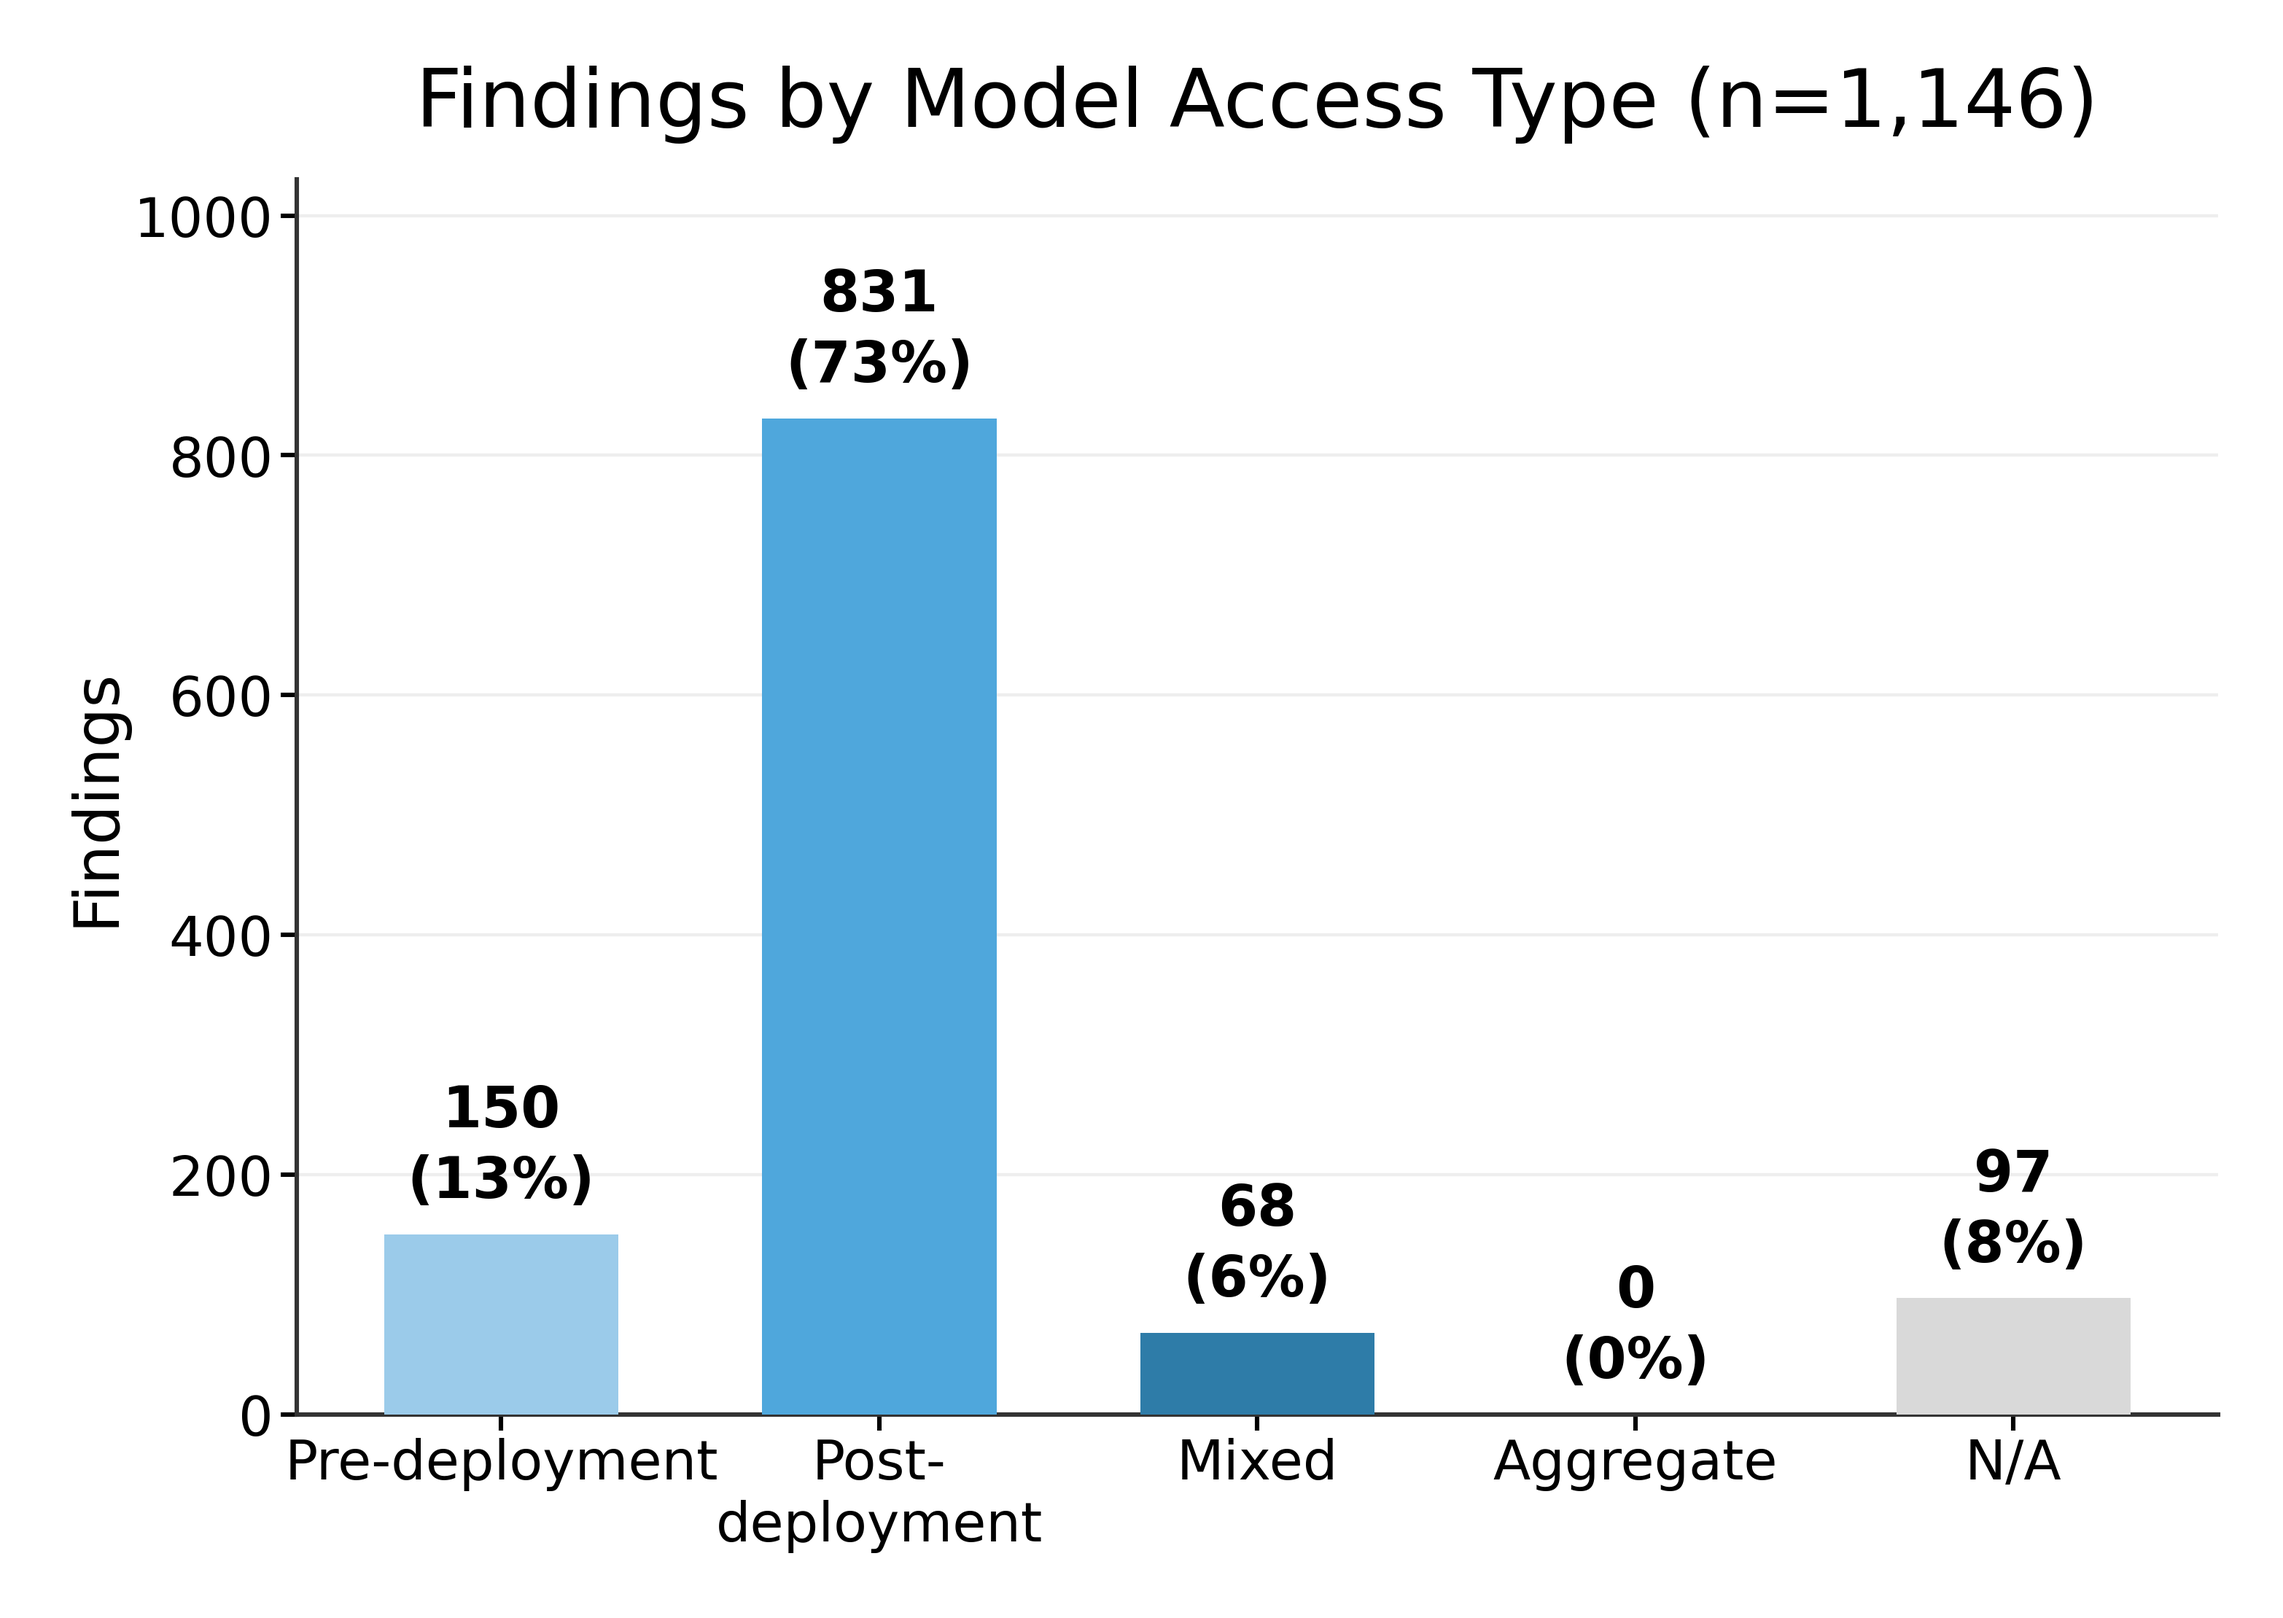
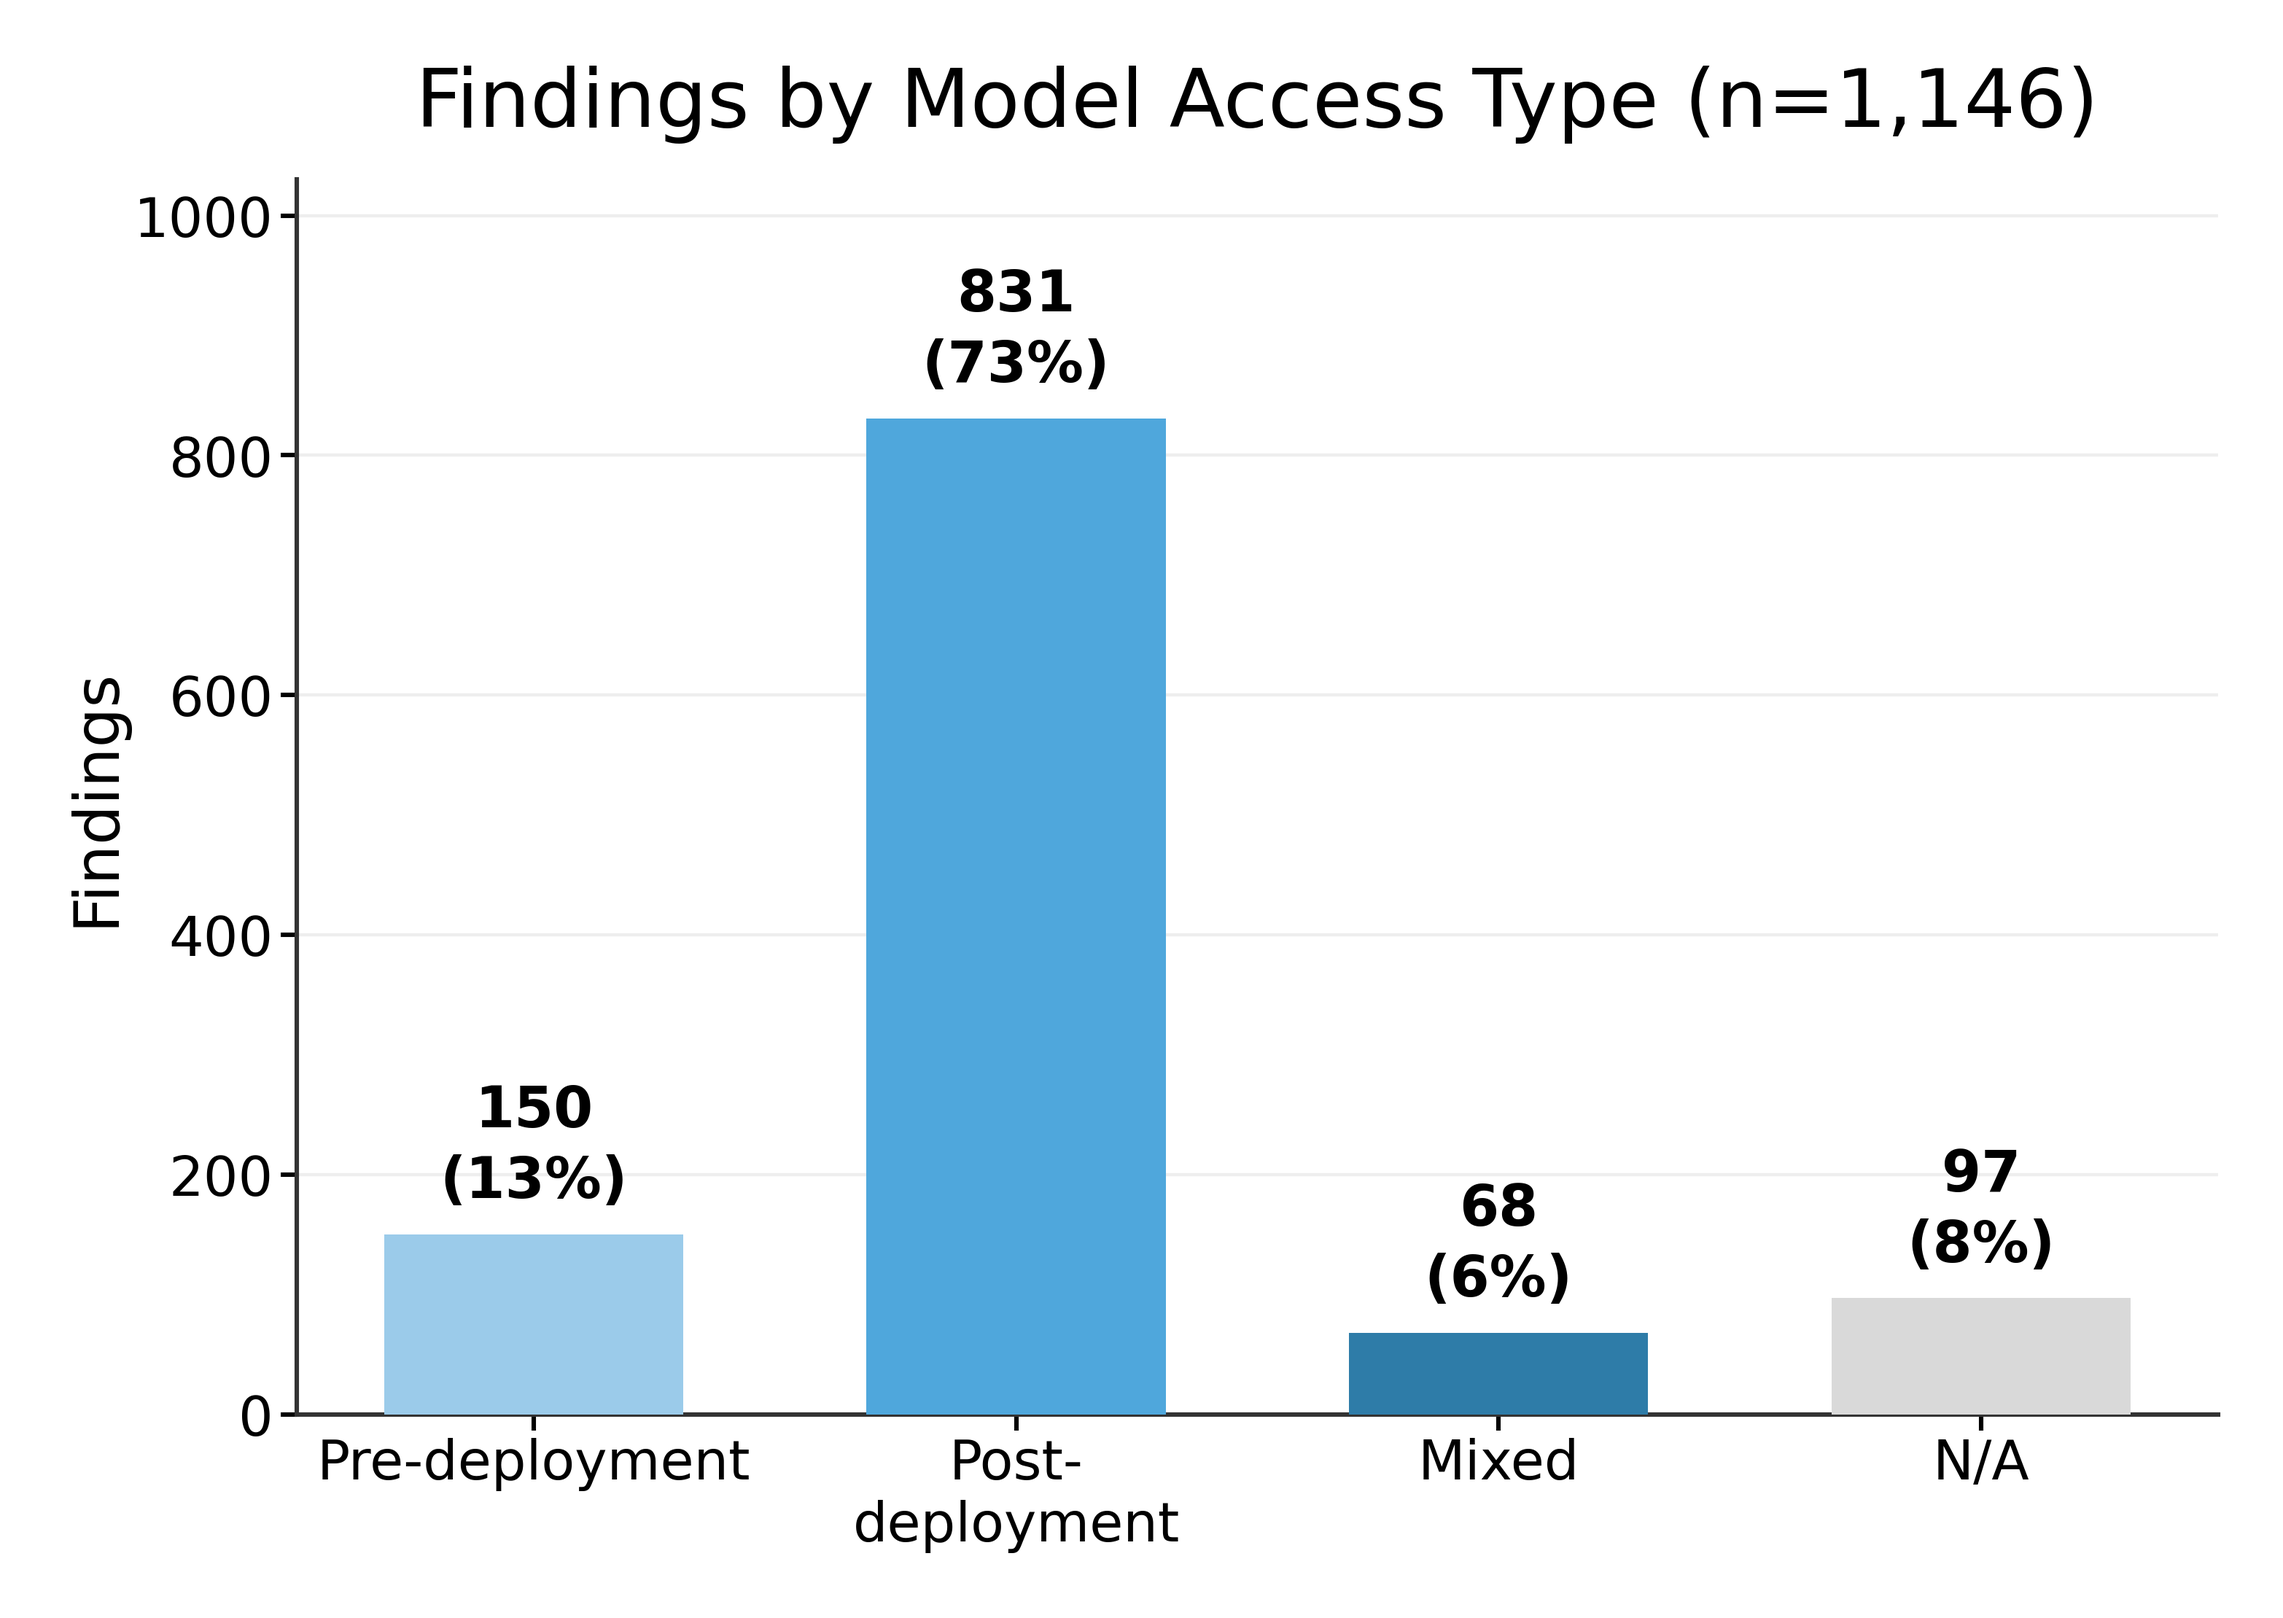
Remove Aggregate from the Access Type vocabulary
Aggregate was retired on 2026-08-31 and all 85 rows carrying it were recoded
then - 76 to Post-deployment (released or open-weight models reached through
public or API access) and 9 to Mixed (UK AISI's Frontier AI Trends Report 2025,
whose access is ahead of public release in some cases and public in others). The
reason was that the value described the report's FORMAT - a standing scorecard
or leaderboard - rather than how the evaluator reached the model, which is the
only question the column exists to answer.

That retirement was recorded in v10 and never carried into v11. The value stayed
in the v11 column-9 vocabulary, in the validator and audit VOCAB sets, and in the
key order of four chart scripts, so every access-type figure drew an empty
Aggregate category with a legend entry and a colour assigned to nothing.

Worse, scripts/merge_sweep.py still mapped aggregate|leaderboard|model card to
Aggregate on ingestion, so the retired value would have been minted again by the
next sweep - the vocabulary would have repopulated itself. That rule now maps to
Post-deployment, which is where 76 of the original 85 rows landed on
re-examination.

Removed from: palette.py (all three palettes), charts.py, charts2.py,
nfigA_access.py, audit_v13.py, merge_aisieval.py, AISIEVAL_validate.py,
merge_sweep.py and v11_RULEBOOK.md column 9. The v10 rulebook and the codebook
keep their entries, because those are where the retirement is documented. The
[…]

diff --git a/research/scripts/palette.py b/research/scripts/palette.py
@@ -55,8 +55,9 @@ ATTRIB = {"Explicit attribution": GREEN, "No explicit attribution": AMBER,
 SCOPE = {"government-AISI": "#2E7CA8", "third-party-evaluator": BLUE, "": GREY}
 
 # Access type: descriptive ordinal, palest to deepest, with grey for the non-answers.
+# `Aggregate` was retired 2026-08-31 — it described the report's format, not model access.
 ACCESS = {"Pre-deployment": "#9BCBEA", "Post-deployment": "#4FA7DC", "Mixed": "#2E7CA8",
-          "Aggregate": "#1F5A7A", "N/A": GREY, "": GREY}
+          "N/A": GREY, "": GREY}
 
 # Institution type, for the tree. Four sibling categories with no valence, so they need to be
 # BRIGHT and clearly separable — four tints of one blue are unreadable side by side. All four are
@@ -199,7 +200,7 @@ if _os.environ.get("AISIEVAL_PALETTE") == "legacy":
               "No response located": GREY, "": GREY}
     SCOPE = {"government-AISI": BLUE, "third-party-evaluator": "#4FADEE", "": GREY}
     ACCESS = {"Pre-deployment": BLUE, "Post-deployment": "#4FADEE", "Mixed": "#7B4FBF",
-              "Aggregate": "#00A6A6", "N/A": GREY, "": GREY}
+              "N/A": GREY, "": GREY}
     INSTTYPE = {"Government": "#1F6FB2", "Non-Profit (AIEF)": "#1E9E63",
                 "Non-Profit (Independent)": "#5B9BD5", "For-Profit": "#E8A80C"}
     NEUTRAL = [BLUE, ORANGE, "#00A6A6", "#7B4FBF", GREEN, "#D4267D", AMBER, "#4FADEE", "#7CB518", RED]
@@ -256,7 +257,7 @@ if _os.environ.get("AISIEVAL_PALETTE") == "mats":
               "No response located": GREY, "": GREY}
     SCOPE  = {"government-AISI": M["blue800"], "third-party-evaluator": M["blue400"], "": GREY}
     ACCESS = {"Pre-deployment": M["blue200"], "Post-deployment": M["blue400"],
-              "Mixed": M["blue600"], "Aggregate": M["blue800"], "N/A": GREY, "": GREY}
+              "Mixed": M["blue600"], "N/A": GREY, "": GREY}
     INSTTYPE = {"Government": M["blue800"], "Non-Profit (AIEF)": "#3E8C9E",
                 "Non-Profit (Independent)": "#8C5A7A", "For-Profit": M["blue400"]}
     NEUTRAL = [M["blue800"], M["blue600"], M["blue400"], "#3E8C9E", M["700"],

diff --git a/research/scripts/charts.py b/research/scripts/charts.py
@@ -120,7 +120,7 @@ ax.set_title(f"Tier A Findings by Model Developer (n={len(A)})",pad=26); ax.set_
 plt.close(fig)
 
 # ---------------------------------------------------------------- 03 access type
-order_keys=["Pre-deployment","Post-deployment","Mixed","Aggregate","N/A"]
+order_keys=["Pre-deployment","Post-deployment","Mixed","N/A"]
 order=order_keys
 c=collections.Counter(r.get("Access Type") for r in ROWS)
 v=[c.get(k,0) for k in order]
@@ -267,7 +267,7 @@ ax.set_title("Accountability Gap Rate by Publication Year (Tier A, C1)",pad=26);
 save(fig,"15_gap_rate_by_year.png")
 
 # ---------------------------------------------------------------- 16 gap rate by access type
-keys=[k for k in ("Pre-deployment","Post-deployment","Mixed","Aggregate") if any(r.get("Access Type")==k for r in H)]
+keys=[k for k in ("Pre-deployment","Post-deployment","Mixed") if any(r.get("Access Type")==k for r in H)]
 vals=[];ns=[]
 for k in keys:
     S=[r for r in H if r.get("Access Type")==k]

diff --git a/research/scripts/merge_sweep.py b/research/scripts/merge_sweep.py
@@ -84,7 +84,10 @@ def ftype(s, tier):
 def access(s):
     s = (s or '').lower()
     if re.search(r'pre-?deploy|pre-?release|deep access|early access', s): return 'Pre-deployment'
-    if re.search(r'aggregate|leaderboard|model card', s):                  return 'Aggregate'
+    # A standing scorecard, leaderboard or model card describes the report's FORMAT, not how the
+    # evaluator reached the model. That is why `Aggregate` was retired on 2026-08-31 and all 85
+    # rows recoded; this rule was still minting the value it had been retired for.
+    if re.search(r'aggregate|leaderboard|model card', s):                  return 'Post-deployment'
     if re.search(r'mix', s):                                               return 'Mixed'
     if re.search(r'api|open weight|public product|deployed|web page|black.?box', s): return 'Post-deployment'
     return 'N/A'

diff --git a/research/scripts/audit_v13.py b/research/scripts/audit_v13.py
@@ -122,7 +122,7 @@ flag("Finding Quote blank on a Tier A row", [r["Finding ID"] for r in A if not (
 VOCAB = {
  "Institution Type": {"Government","Non-Profit (AIEF)","For-Profit","Non-Profit (Independent)",
                       "Non-Profit (Independent);Lab","Government;Lab","For-Profit;Lab","Government;For-Profit"},
- "Access Type": {"Pre-deployment","Post-deployment","Mixed","Aggregate","N/A"},
+ "Access Type": {"Pre-deployment","Post-deployment","Mixed","N/A"},
  "Scope": {"government-AISI","third-party-evaluator"},
  "Severity (C1/C2) majority": {"C1","C2"},
  "Human": {"C1","C2"},

diff --git a/research/dataset/AISIEVAL_validate.py b/research/dataset/AISIEVAL_validate.py
@@ -19,7 +19,7 @@ VOCAB = {
  "Proportionality": {"Proportionate","Under-response (gap)","Accountability gap (no action)"},
  "Eval? (trackable)": {"yes","no"}, "Action Trackable?": {"yes","no",""},
  "Scope": {"government-AISI","third-party-evaluator"},
- "Access Type": {"Pre-deployment","Post-deployment","Mixed","Aggregate","N/A"},
+ "Access Type": {"Pre-deployment","Post-deployment","Mixed","N/A"},
 }
 MATRIX = {("C1","Substantive"):"Proportionate",("C1","Partial"):"Under-response (gap)",
  ("C1","Acknowledged"):"Under-response (gap)",("C1","None"):"Accountability gap (no action)",

diff --git a/research/scripts/merge_aisieval.py b/research/scripts/merge_aisieval.py
@@ -74,7 +74,7 @@ VOCAB = {
     "Eval? (trackable)": {"yes", "no"},
     "Action Trackable?": {"yes", "no"},
     "Scope": {"government-AISI", "third-party-evaluator"},
-    "Access Type": {"Pre-deployment", "Post-deployment", "Mixed", "Aggregate", "N/A"},
+    "Access Type": {"Pre-deployment", "Post-deployment", "Mixed", "N/A"},
     "Institution Type": {"Government", "For-Profit", "Non-Profit (AIEF)", "Non-Profit (Independent)", "Lab"},
     "Domain": {
         "Alignment", "Autonomy", "Bio-Chem", "Cyber", "Jailbreaks", "Societal", "Institutional",

diff --git a/research/scripts/nfigA_access.py b/research/scripts/nfigA_access.py
@@ -25,7 +25,7 @@ plt.rcParams.update({"figure.dpi": 200, "savefig.dpi": 200, "font.family": "Deja
 R = ds.rows()
 A = [r for r in R if r["Eval? (trackable)"] == "yes" and r["Action Trackable?"] == "yes"]
 H = [r for r in A if r["Severity (C1/C2) majority"] == "C1"]
-ORDER = ["Pre-deployment", "Post-deployment", "Mixed", "Aggregate", "N/A"]
+ORDER = ["Pre-deployment", "Post-deployment", "Mixed", "N/A"]
 c = collections.Counter(r["Access Type"] for r in R)
 keys = [k for k in ORDER if c[k]]
 

diff --git a/research/scripts/charts2.py b/research/scripts/charts2.py
@@ -109,7 +109,7 @@ ax.set_ylabel("Share with no documented action")
 save(fig,"15_gap_rate_by_year.png")
 
 # ---- 16 DOT PLOT: gap rate by access type --------------------------------
-keys=[k for k in ("Pre-deployment","Post-deployment","Mixed","Aggregate") if any(r.get("Access Type")==k for r in H)]
+keys=[k for k in ("Pre-deployment","Post-deployment","Mixed") if any(r.get("Access Type")==k for r in H)]
 vals=[];ns=[]
 for k in keys:
     S=[r for r in H if r.get("Access Type")==k]

diff --git a/research/rulebook/v11_RULEBOOK.md b/research/rulebook/v11_RULEBOOK.md
@@ -337,7 +337,7 @@ counts as corpus headline statistics.
 | 6 | Publication Date | Source-verified `YYYY-MM-DD`, or `YYYY-MM` if no day is available. |
 | 7 | Domain | Controlled vocabulary, semicolon-separated when multi-domain. |
 | 8 | Models / Systems | Subject systems only; comparators go in Notes. |
-| 9 | Access Type | Pre-deployment, Post-deployment, Mixed, Aggregate, or N/A. |
+| 9 | Access Type | Pre-deployment, Post-deployment, Mixed, or N/A. `Aggregate` was retired 2026-08-31; see the changelog. |
 | 10 | Source URL | Primary finding source; stable/frozen where possible. |
 | 11 | Finding | Accurate 1–2 sentence paraphrase; every number supported. |
 | 12 | Finding Quote | Verbatim supporting source text. |
@@ -383,6 +383,25 @@ counts as corpus headline statistics.
   severity, or combined-version blockers remain.
 
 ## Changelog
+
+- **2026-09-23 · `Aggregate` removed from the Access Type vocabulary in v11.** The value was
+  retired on 2026-08-31 and all 85 rows carrying it were recoded then — 76 to `Post-deployment`
+  (released or open-weight models reached through public or API access) and 9 to `Mixed` (UK AISI's
+  *Frontier AI Trends Report 2025*, whose access is "ahead of public release" in some cases and
+  public in others). The reason was that `Aggregate` described the report's *format* — a standing
+  scorecard or leaderboard — rather than how the evaluator reached the model, which is the only
+  question this column exists to answer.
+
+  **The retirement was recorded in v10 and never carried into v11.** The value stayed in the v11
+  column-9 vocabulary, in the validator and audit VOCAB sets, and in the key order of four chart
+  scripts, so every access-type figure drew an empty `Aggregate` category. Worse,
+  `scripts/merge_sweep.py` still mapped `aggregate|leaderboard|model card` to `Aggregate` on
+  ingestion, so the retired value would have been minted again by the next sweep. All of it is now
+  removed, and that ingestion rule maps to `Post-deployment`, which is where 76 of the original 85
+  rows landed on re-examination.
+
+  No row changed — the workbook has held zero `Aggregate` rows since 2026-08-31. Access Type across
+  the corpus is Post-deployment 831 · Pre-deployment 150 · N/A 97 · Mixed 68.
 
 - **2026-09-23 · §9.1 added: a disclosed government directive is binding on the company's own
   word.** The rule now reads: where an identified company states that it received a directive from
